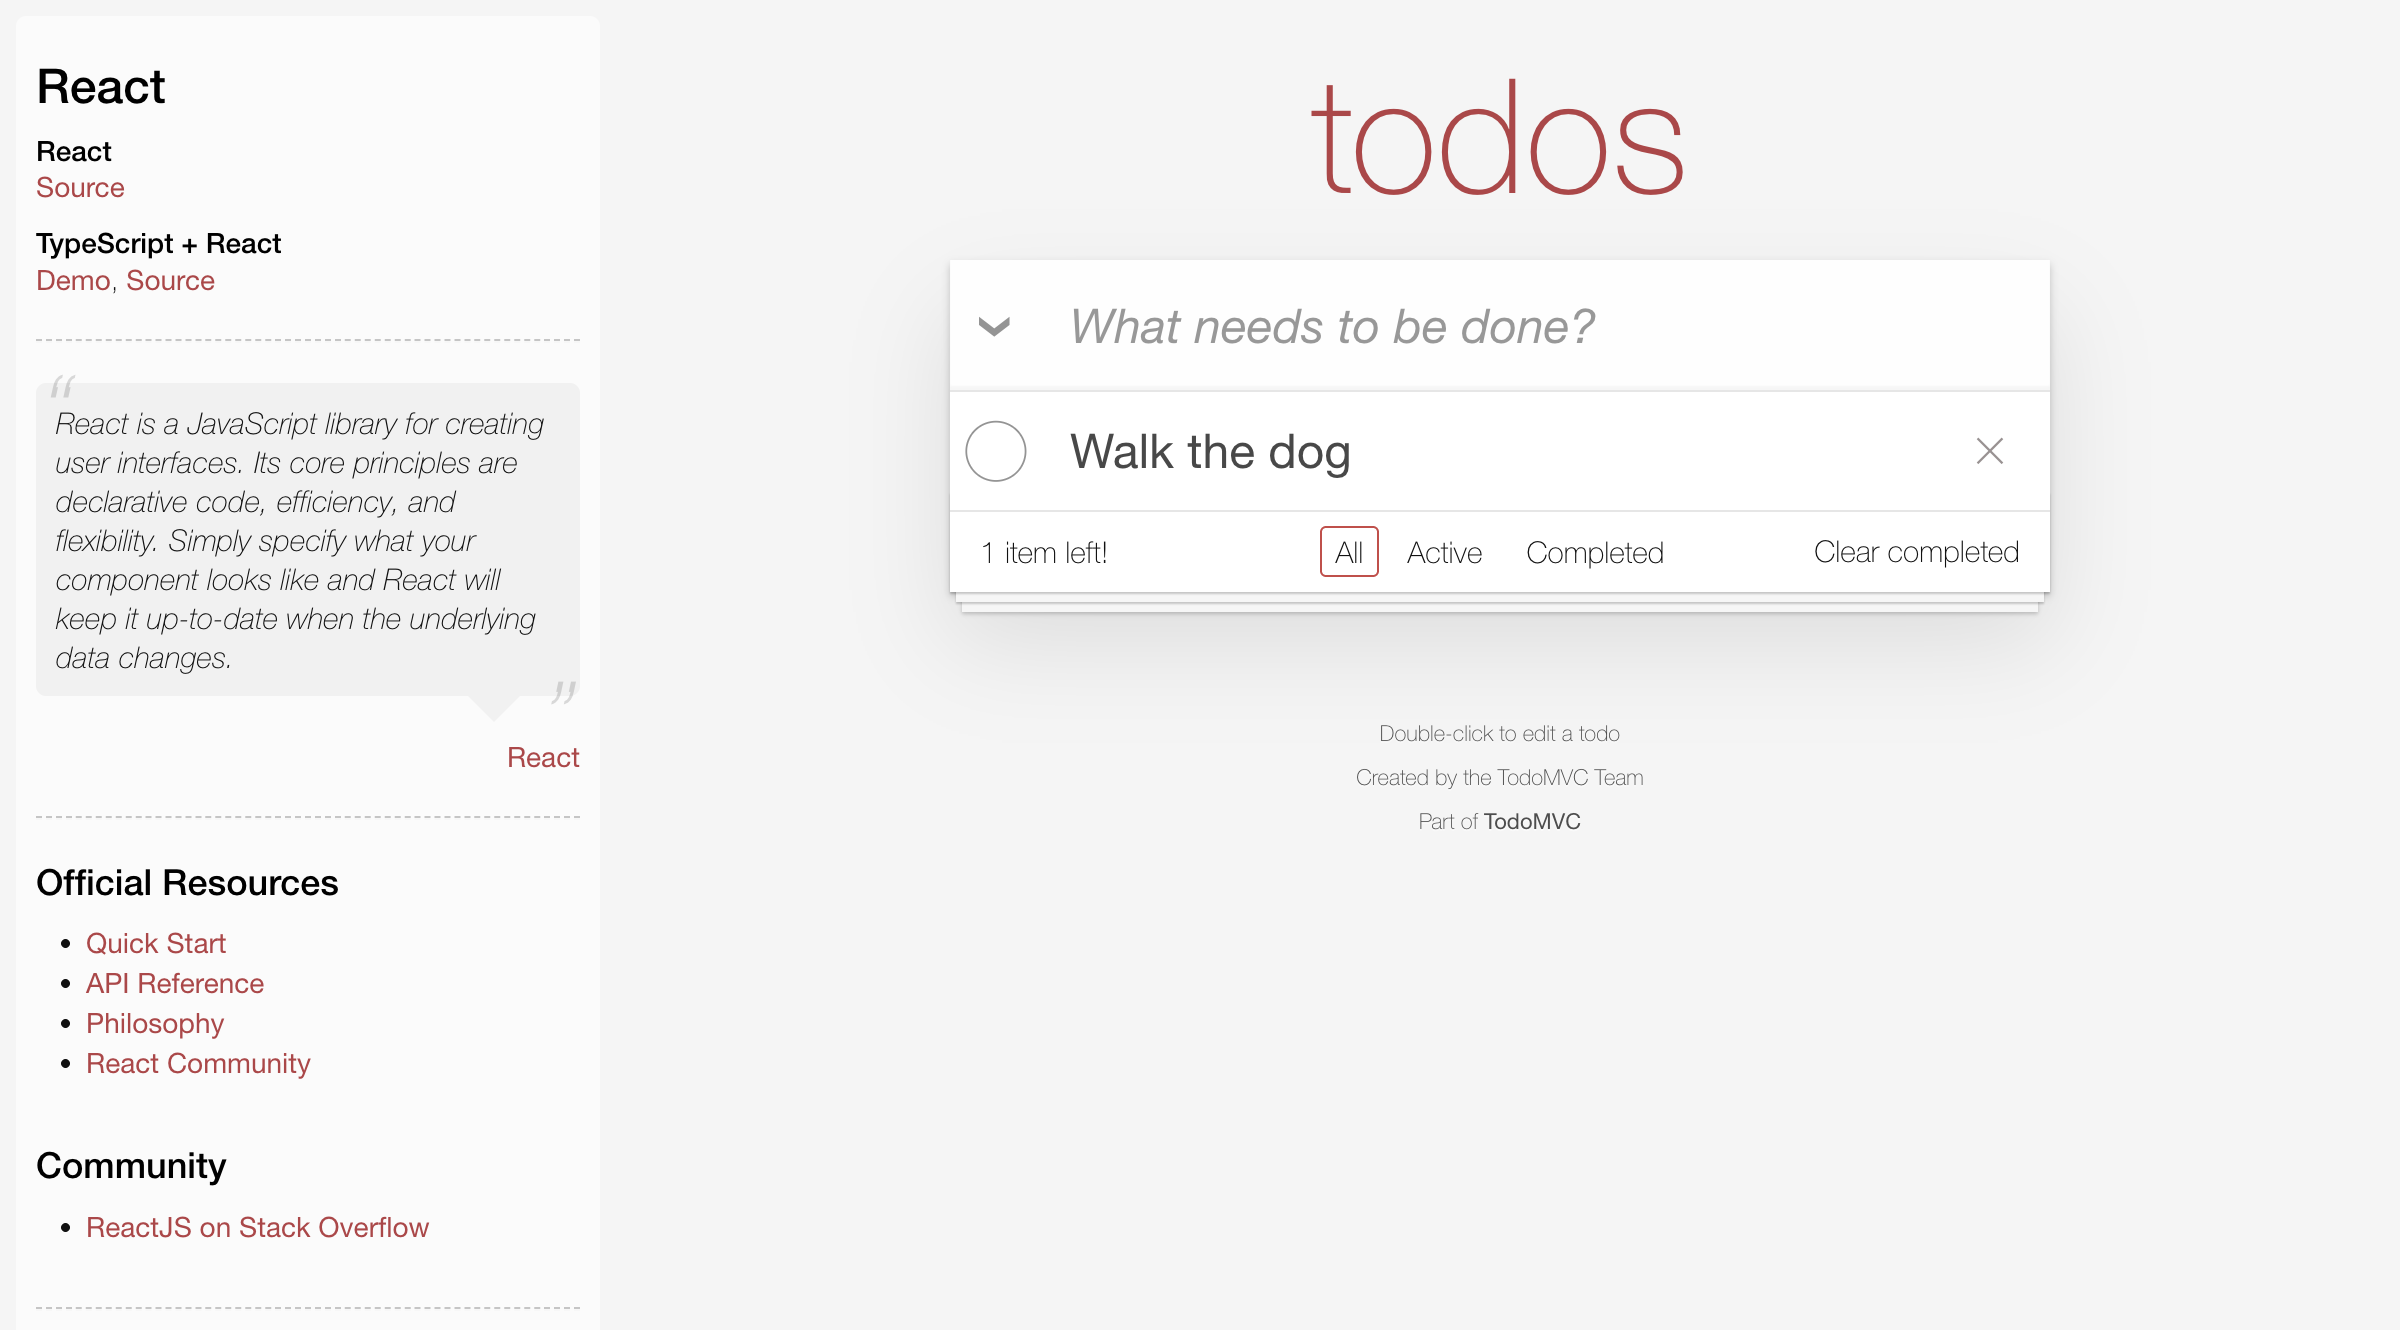
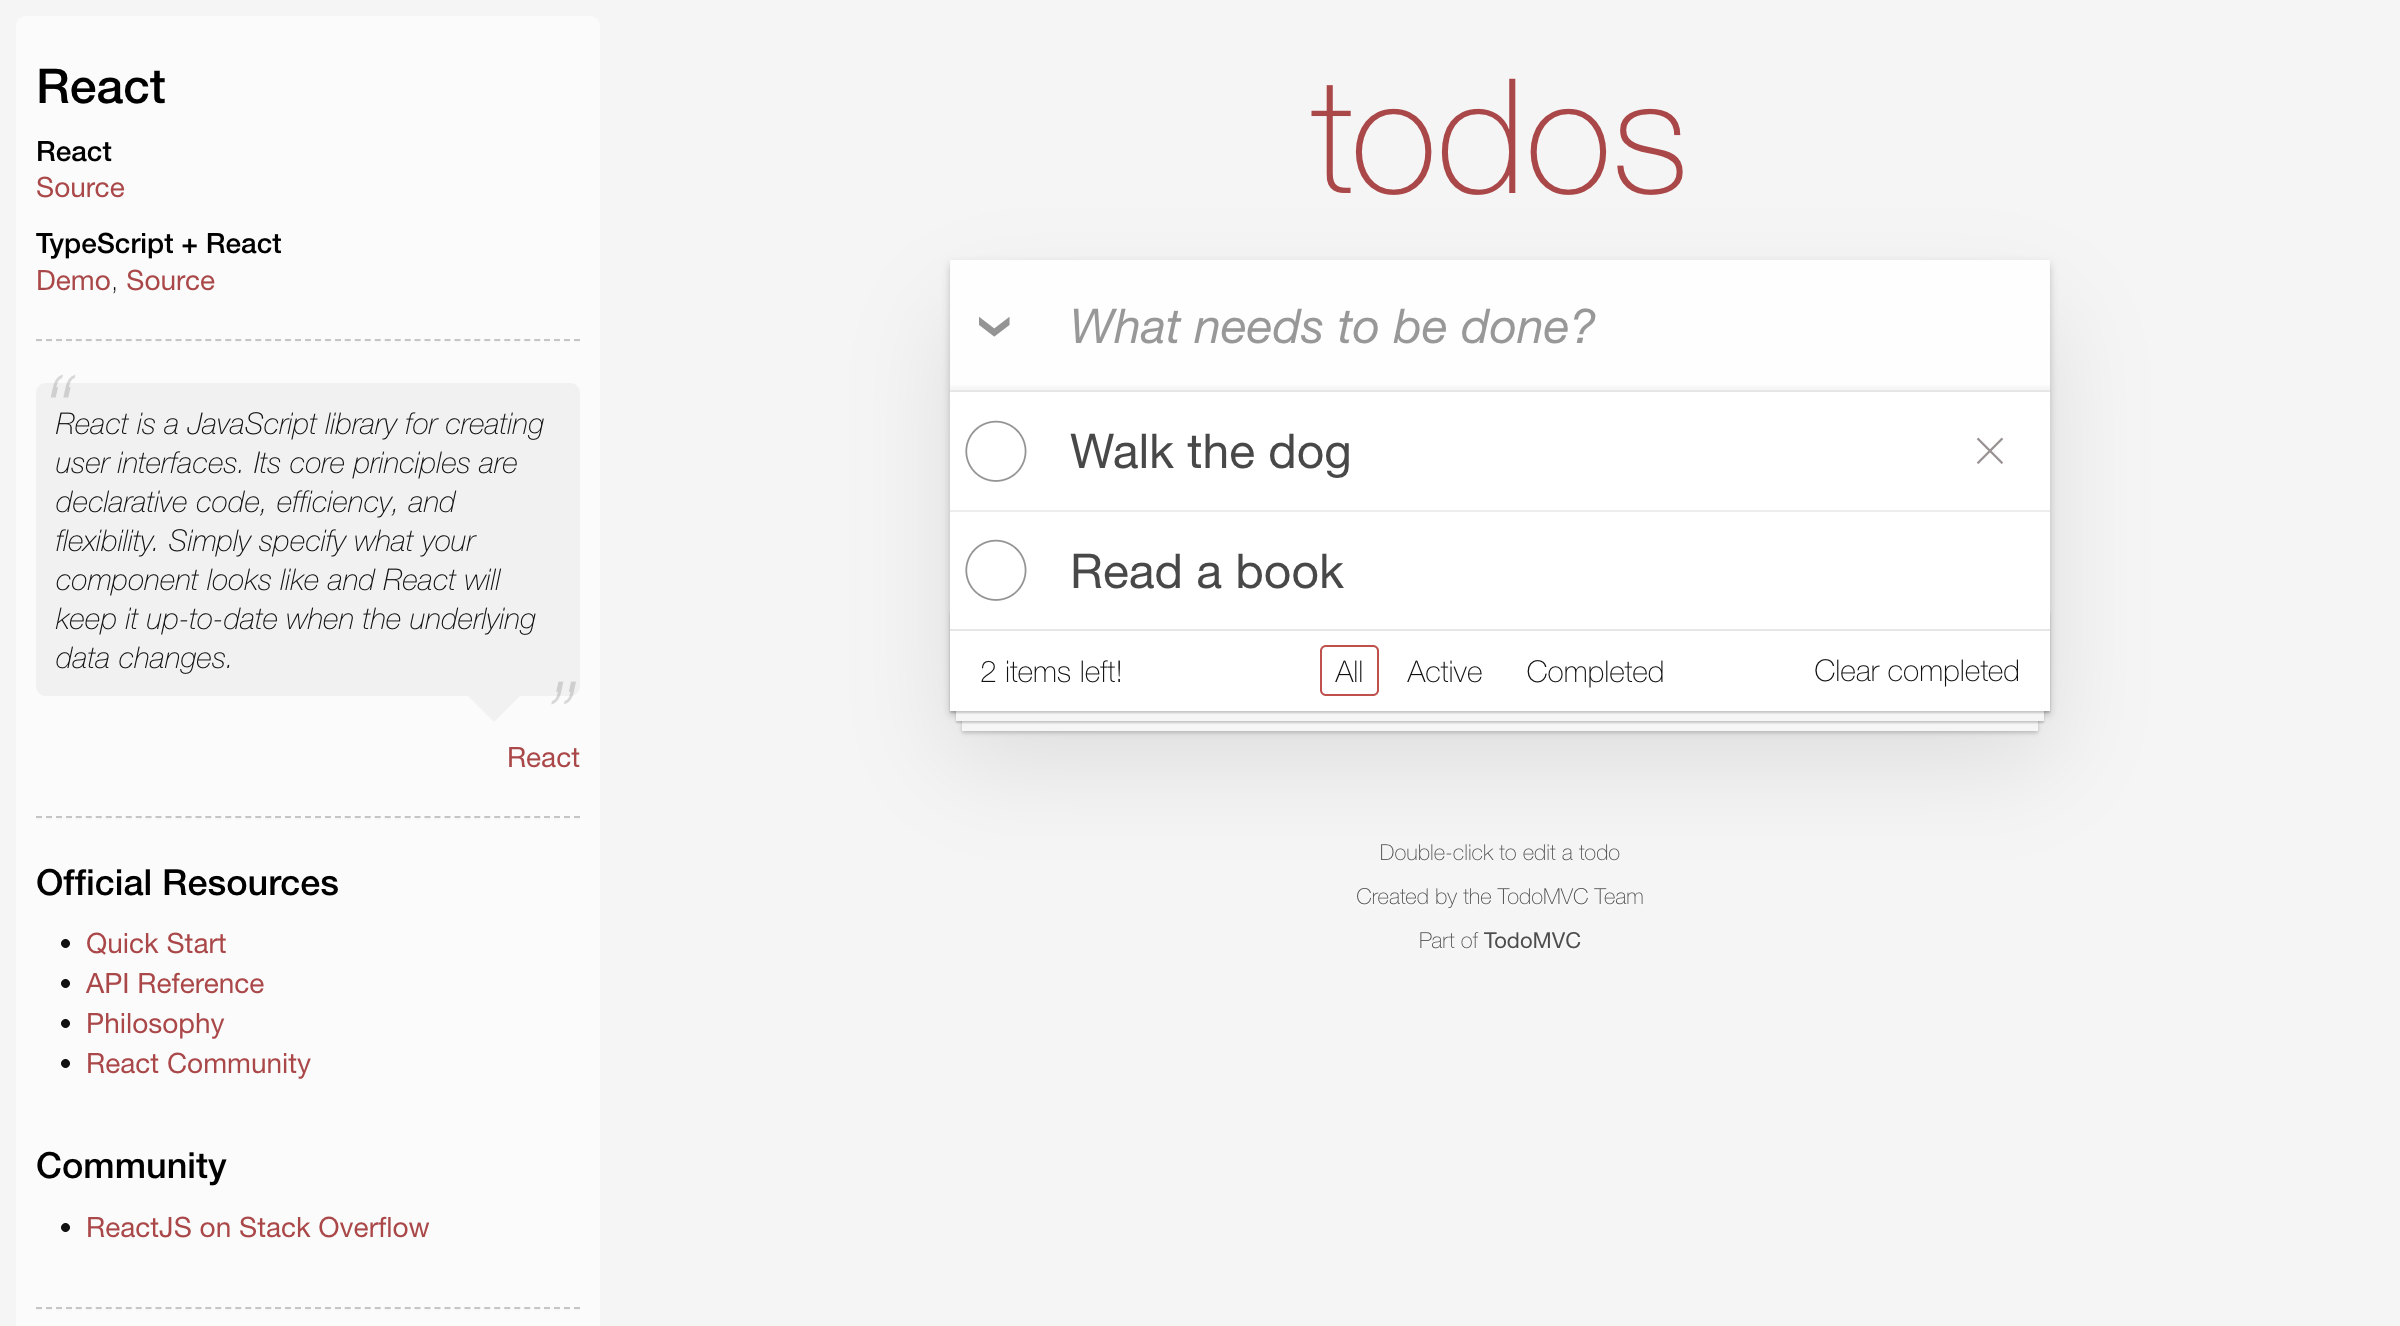
added tests that check items left

diff --git a/src/test/java/TodoMVCReactPageTest.java b/src/test/java/TodoMVCReactPageTest.java
@@ -2,7 +2,8 @@ import org.junit.jupiter.api.AfterAll;
 import org.junit.jupiter.api.BeforeAll;
 import org.junit.jupiter.api.Test;
 import org.openqa.selenium.chrome.ChromeDriver;
-import static org.junit.jupiter.api.Assertions.assertEquals;
+
+import static org.junit.jupiter.api.Assertions.*;
 
 public class TodoMVCReactPageTest {
     private static ChromeDriver driver;
@@ -148,4 +149,36 @@ public class TodoMVCReactPageTest {
     TodoMVCReactPage.takeScreenshot(driver,"deleted.png");
     assertEquals(1, toDoPage.getLengthOfTodos());
 }
+@Test
+    public void checkStatusBar(){
+        TodoMVCReactPage todopage = new TodoMVCReactPage(driver);
+        todopage.navigate();
+        todopage.inputToDo("Buy Sweets");
+        todopage.inputToDo("Walk the dog");
+        todopage.inputToDo("Talk to Gary");
+        assertEquals("3 items left!", todopage.getItemsLeft());
+
+    }
+   @Test
+   public void checkStatusBarOne(){
+       TodoMVCReactPage todopage = new TodoMVCReactPage(driver);
+       todopage.navigate();
+       todopage.inputToDo("Buy Sweets");
+       assertEquals("1 item left!", todopage.getItemsLeft());
+
+   }
+    @Test
+    public void oneLeftToDoStatusCheck() throws Exception {
+        TodoMVCReactPage toDoPage = new TodoMVCReactPage(driver);
+        toDoPage.navigate();
+        toDoPage.inputToDo("Buy Sweets");
+        toDoPage.inputToDo("Walk the dog");
+        toDoPage.inputToDo("Read a book");
+        toDoPage.clickDeleteItem(1);
+        TodoMVCReactPage.takeScreenshot(driver,"deleted.png");
+        assertEquals("2 items left!", toDoPage.getItemsLeft());
+    }
+
+
+
 }

diff --git a/src/test/java/TodoMVCReactPage.java b/src/test/java/TodoMVCReactPage.java
@@ -35,6 +35,7 @@ public class TodoMVCReactPage {
         return driver.findElements(todoItemsBy).size();
     }
 
+
     public void addTextToTodoItem(int index, String text) {
         String selector = "ul.todo-list li:nth-child(" + index + ") label";
         WebElement todoItem = driver.findElement(By.cssSelector(selector));
